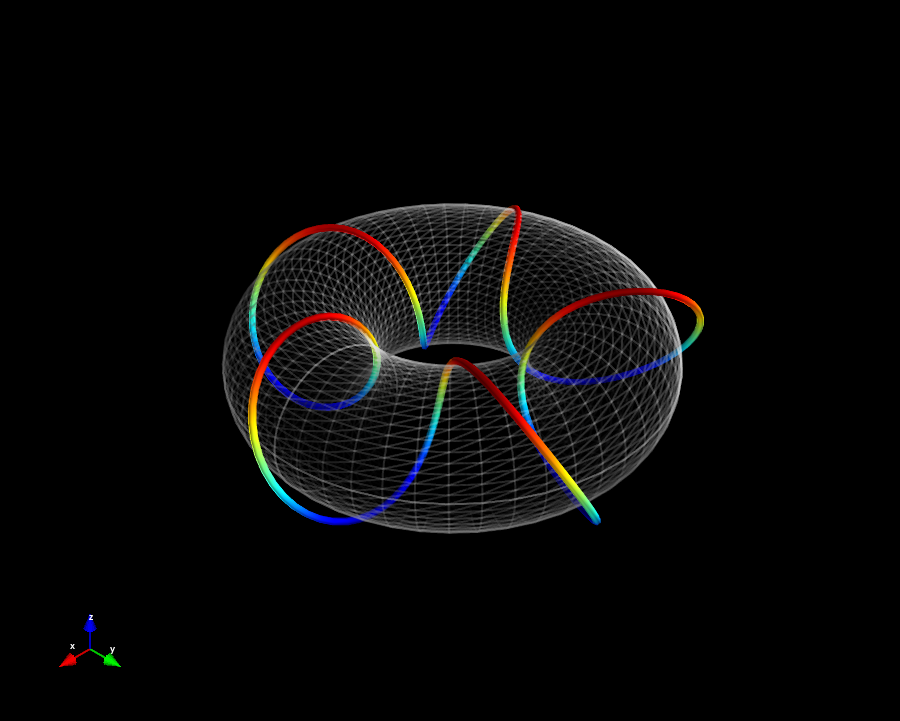
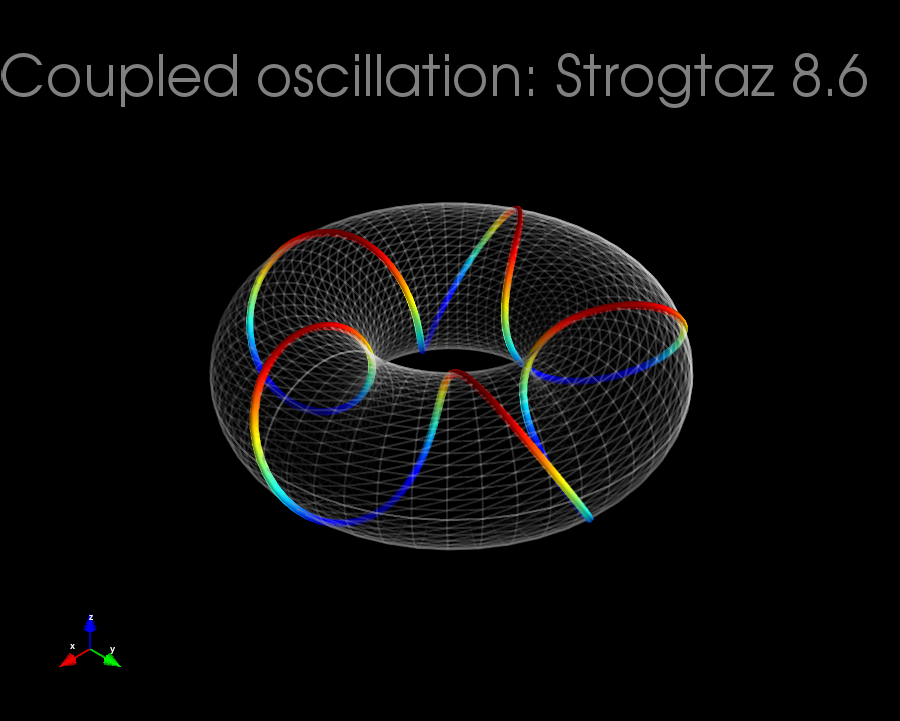
update to Lorenzian
To do add sympy symbolic derivation for Lorenzian-type equations in Ch.9

Changed region(s): [[0.2178, 0.2746, 0.8089, 0.7628], [0.0, 0.061, 0.5911, 0.1526], [0.6222, 0.061, 0.9644, 0.1526]]

diff --git a/Strogatz/Lorenz attractor mayavi.py b/Strogatz/Lorenz attractor mayavi.py
@@ -1,0 +1,95 @@
+# Please attribute to Llewelyn Richards-Ward,
+#llewelyn62@icloud.com
+#Use and distribute as you want. 
+from mayavi import mlab
+import numpy as np
+import matplotlib.pyplot as plt
+import numba as nb
+from scipy.integrate import odeint
+
+#Create figure
+mlab.figure(size=(900,800), bgcolor=(0,0,0), fgcolor=(1,1,1))
+#For a very basic  approach which shows the steps this commented
+#section can be used. eThe preferrend methods is to 
+#use odeint and an array/function combination, as below. 
+#Note the use of the Euler integration method.
+#=========================================
+#   # Integration time step
+# dt = 0.001
+#   # Lorenz ODE parameters
+# sigma = 10.0
+# r     = 28.0
+# b     = 8.0/3.0
+#   # Initial conditions
+# x = -.5
+# y =  .2
+# z =  2.17
+#   # Store the trajectory
+# TrajX = []
+# TrajY = []
+# TrajZ = []
+# Time  = []
+# 
+#   # Integrate the Lorenz ODEs
+#   #Pretty basic approach -- in real examples would
+#   #use odeint and an array/function combination. 
+# for t in np.arange(0.,50.,dt):
+# 	dxdt = sigma*(y - x)
+# 	dydt = r * x - y - x * z
+# 	dzdt = x * y - b * z
+# 	x = x + dxdt * dt
+# 	y = y + dydt * dt
+# 	z = z + dzdt * dt
+# 
+# 	TrajX.append(x)
+# 	TrajY.append(y)
+# 	TrajZ.append(z)
+# 	Time.append(t)
+#=========================================
+
+# Lorenz paramters and initial conditions
+sigma, beta, rho = 10, 2, 28
+u0, v0, w0 = 0, 1, 1.05
+
+# Maximum time point and total number of time points
+tmax, n = 50, 10000
+@nb.jit(nopython=True) #optimises for speed. 
+def deriv_lorenz(X, t, sigma, beta, rho):
+    """The Lorenz equations."""
+    x, y, z = X
+    dx_dt = -sigma*(x - y)
+    dy_dt = rho*x - y - x*z
+    dz_dt = -beta*z + x*y
+    return dx_dt, dy_dt, dz_dt
+
+# Integrate the Lorenz equations on the time grid t
+#Implements a detailed use of memory space for optimised accuracy, not
+#so much speed. 
+@nb.jit('float64(float64,float64,float64,float64,float64,float64,float64,float64)',nopython=False,parallel=True)
+def int_f(u0=u0,v0=v0,w0=w0,sigma=sigma,beta=beta,rho=rho,tma=tmax,n=n):
+    t = np.linspace(0, tmax, n)
+    f = odeint(deriv_lorenz, (u0, v0, w0), t, args=(sigma, beta, rho))
+    return f
+x, y, z = int_f().T
+Time = np.linspace(0,tmax,n)
+
+mlab.plot3d(x,y,z,Time,colormap='Spectral',tube_radius=0.3)
+mlab.outline(opacity=.4)
+mlab.points3d(0,0,0,opacity=.5)
+mlab.text3d(0,0,0,'Origin')
+mlab.points3d(np.sqrt(beta*(rho-1)),np.sqrt(beta*(rho-1)),rho-1,opacity=.5)
+mlab.text3d(np.sqrt(beta*(rho-1))*1.2,np.sqrt(beta*(rho-1)),rho-1,'C+')
+mlab.points3d(-np.sqrt(beta*(rho-1)),-np.sqrt(beta*(rho-1)),rho-1,opacity=.5)
+mlab.text3d(-np.sqrt(beta*(rho-1))*1.2,-np.sqrt(beta*(rho-1)),rho-1,'C-')
+mlab.orientation_axes(xlabel='x',ylabel='y',zlabel='z')
+
+#plt.show()
+@mlab.animate(delay=50, ui=False)
+def anim():
+    f = mlab.gcf()
+    while 1:
+        f.scene.camera.azimuth(2)
+        f.scene.render()
+        yield
+
+a = anim() # Starts the animation.

diff --git a/Strogatz/Strogatz_8_6_torus.py b/Strogatz/Strogatz_8_6_torus.py
@@ -1,3 +1,7 @@
+# Please attribute to Llewelyn Richards-Ward,
+#llewelyn62@icloud.com
+#Use and distribute as you want. 
+
 from mpl_toolkits.mplot3d import axes3d
 import matplotlib.pyplot as plt
 import numpy as np
@@ -10,17 +14,13 @@ from mayavi import mlab
 #x = (R + rcos(v))cos(u)
 #y = (R + rcos(v))sin(u)
 #z= -rsin(v)
-p,q = 5,1
+p,q = 3,2
 mlab.figure(size=(900,800), bgcolor=(0,0,0), fgcolor=(1,1,1))
 #Plots a meshplane
-# r, v = np.mgrid[.5:.6:200j, -p*np.pi:p*np.pi:200j] #Cross section
-# R, u = np.mgrid[1:1.1:200j, -q*np.pi:q*np.pi:200j] #Torus big circle
-#mobj = mlab.mesh(x,y,z)
-
-r = np.linspace(.5,.6,200)
-R = np.linspace(1,1.1,200)
-v = np.linspace(-p*np.pi,p*np.pi,200)
-u = np.linspace(-q*np.pi,q*np.pi,200)
+r = .5
+R = 1
+v = np.linspace(-p*np.pi,p*np.pi,p*200)
+u = np.linspace(-q*np.pi,q*np.pi,p*200)
 
 #Create coordinates
 x = (R + r*np.cos(v))*np.cos(u)
@@ -29,6 +29,11 @@ z= -r*np.sin(v)
 #Plot a string around the torus. 
 mobj = mlab.plot3d(x,y,z, z, colormap='jet')
 mlab.orientation_axes(xlabel='x',ylabel='y',zlabel='z')
+mlab.title(r'Coupled oscillation: Strogtaz 8.6',
+                line_width=.5,
+                height=.85,
+                opacity=.5,
+                size=10)
 #mlab.outline(opacity=.1)
 #Shadow torus
 s = mlab.pipeline.parametric_surface()
